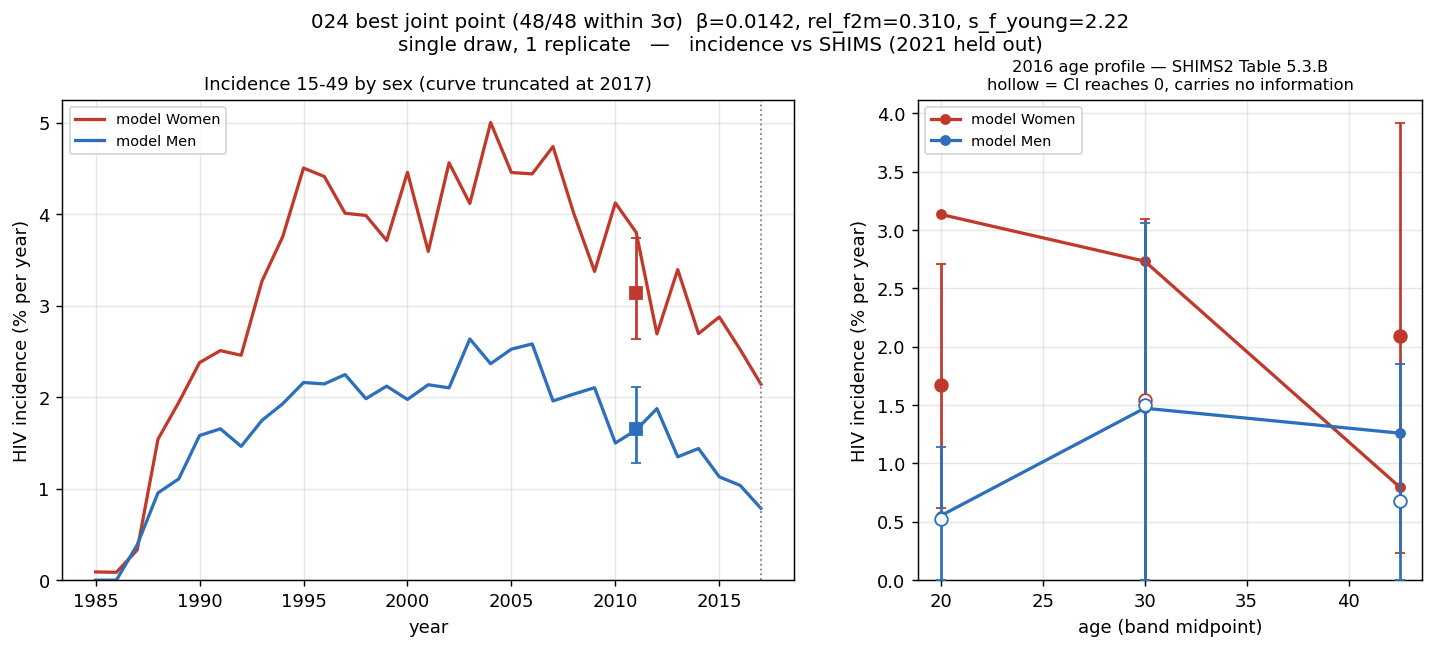
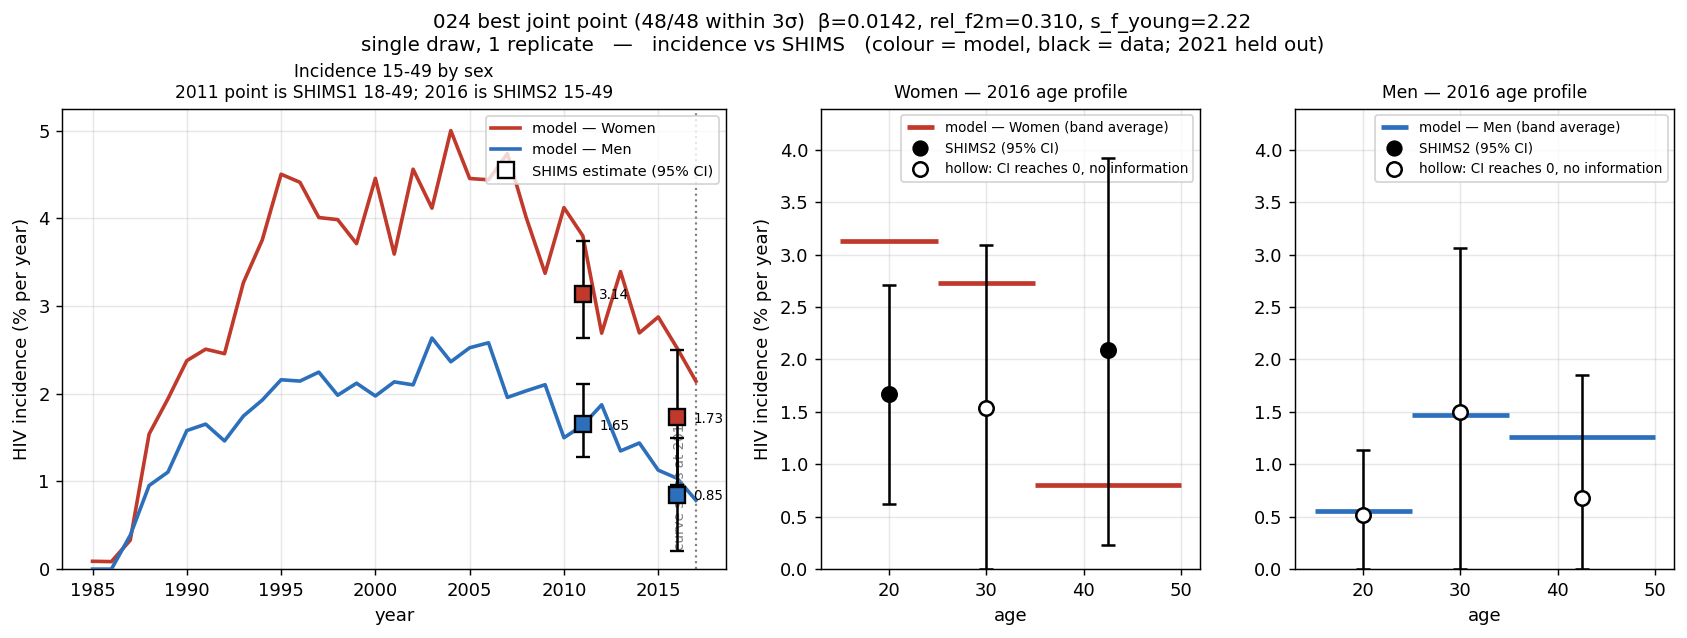
Make the incidence age profile readable, and add the published 15-49 aggregates
Two problems with the first version of the incidence figure, both real.

The 2016 age panel was unreadable. Both sexes shared one axis, so men's and
women's markers landed on the same band midpoints, and sex was encoded as colour
on the model line AND on the data marker, with filled-vs-hollow carrying a third
meaning on top. Redone as: colour is the model, black is the data, and each sex
gets its own panel. The modelled band average is now drawn as a horizontal
segment spanning the band it actually averages over, rather than a point at the
midpoint, because that is what the published estimate is.

The time series showed only the 2011 targets. The 2016 rows in
incidence_by_age_sex.csv are all age-banded, so the aggregate filter skipped
them, and there was no way to judge how well the 2016 curve fit. The published
15-49 aggregates are in data/eswatini_ppdv.csv with CIs, so they are now plotted
as a visual check -- and labelled as such, since they are deliberately NOT
registered as fitting targets: the age bands come from the same survey and
registering both would double-count it. 2021 is excluded as the hold-out.

That plot changes the diagnosis in obs 7, so the SUMMARY is corrected. All four
published aggregates land essentially on the ensemble median (2011 women 3.14,
men 1.65; 2016 women 1.73, men 0.85). The incidence LEVEL is right in both years
and both sexes. What is wrong is the allocation over age within 2016: the model
[…]

diff --git a/standard_figures.py b/standard_figures.py
@@ -361,11 +361,54 @@ def _inc_series(df, sex, lo, hi):
             else inf + df[f"popagesex.n_infected_{sex}_{b}_{b + 5}"]
     susc = alv - inf
     return 100.0 * new / susc.where(susc > 0)
+AGG_INC = "data/eswatini_ppdv.csv"
+
+
+def load_inc_aggregates(path=None):
+    """Published 15-49 incidence aggregates, for the time-series panel.
+
+    NOT fitting targets -- `incidence_by_age_sex.csv` carries the age bands, and
+    registering the aggregate as well would double-count the same survey. They
+    are exactly what a reader needs to judge the time-series curve, though, so
+    they are plotted and labelled as a visual check.
+
+    2011 is 18-49 (SHIMS1's published range), 2016 is 15-49. The 2021 row in this
+    file is the validation hold-out and is dropped here.
+    """
+    root = Path(__file__).parent
+    d = pd.read_csv(root / (path or AGG_INC)).dropna(subset=["Inc"])
+    return d[d.Year.isin((2011, 2016))][
+        ["Year", "AgeCat", "sex", "Inc", "Inc_lb", "Inc_ub"]]
+
+
+def _band_stat(df, sex, lo, hi, year, kind):
+    """(centre, lo, hi) of modelled incidence over one age band in one year."""
+    s = _inc_series(df[np.floor(df.timevec) == year], sex, lo, hi)
+    v = s.dropna() if s is not None else pd.Series(dtype=float)
+    if not len(v):
+        return np.nan, np.nan, np.nan
+    if kind == "ensemble":
+        return v.median(), v.quantile(0.05), v.quantile(0.95)
+    sd = v.std(ddof=1)
+    sd = 0.0 if not np.isfinite(sd) else sd
+    return v.mean(), v.mean() - sd, v.mean() + sd
 
 
 def plot_incidence_fit(df, label, outpath, kind="arm", tg=None, stamp=None,
                        cutoff=INC_CUTOFF):
-    """Incidence against SHIMS by sex: a time series plus the 2016 age profile.
+    """Incidence against SHIMS by sex: a time series plus per-sex 2016 age profiles.
+
+    Design notes, because the first version of this figure was unreadable
+    ---------------------------------------------------------------------
+    The 2016 age profile originally put both sexes on one axis, which made men's
+    and women's markers land on the same band midpoints and left the reader
+    guessing which glyph was model and which was data -- sex was encoded as
+    colour on *both*, and filled-vs-hollow carried a third meaning on top.
+
+    So: **colour is the model, black is the data, and the two sexes get their own
+    panels.** The modelled band average is drawn as a horizontal segment spanning
+    the band it actually averages over, rather than a point at the midpoint,
+    because that is what the published estimate is.
 
     `cutoff` truncates the modelled curve just past the last calibration target.
     Plotting to 2026 invites reading the post-target years as a projection, which
@@ -373,14 +416,15 @@ def plot_incidence_fit(df, label, outpath, kind="arm", tg=None, stamp=None,
     hold-out is deliberately untouched.
     """
     tg = load_inc_targets() if tg is None else tg
+    agg = load_inc_aggregates()
     d = df[df.timevec <= cutoff]
     cols = {"f": "#c0392b", "m": "#2c6fbb"}
     names = {"f": "Women", "m": "Men"}
 
-    fig, axes = plt.subplots(1, 2, figsize=(13.5, 4.8),
-                             gridspec_kw=dict(width_ratios=[1.45, 1]))
+    fig, axes = plt.subplots(1, 3, figsize=(16, 4.6),
+                             gridspec_kw=dict(width_ratios=[1.75, 1, 1]))
 
-    # --- Left: incidence over time, 15-49, by sex ---
+    # --- Left: incidence over time, 15-49, by sex --------------------------------
     ax = axes[0]
     for sex in ("f", "m"):
         s = _inc_series(d, sex, 15, 50)
@@ -389,65 +433,79 @@ def plot_incidence_fit(df, label, outpath, kind="arm", tg=None, stamp=None,
         gg = pd.DataFrame({"t": d.timevec.values, "v": s.values}).dropna()
         if not len(gg):
             continue
-        agg = gg.groupby("t").v
+        a = gg.groupby("t").v
         if kind == "ensemble":
-            centre, lo_b, hi_b = agg.median(), agg.quantile(0.05), agg.quantile(0.95)
+            centre, lo_b, hi_b = a.median(), a.quantile(0.05), a.quantile(0.95)
         else:
-            centre = agg.mean()
-            sd = agg.std(ddof=1).fillna(0.0)
+            centre = a.mean()
+            sd = a.std(ddof=1).fillna(0.0)
             lo_b, hi_b = centre - sd, centre + sd
-        ax.plot(centre.index, centre.values, color=cols[sex], lw=1.8,
-                label=f"model {names[sex]}")
+        ax.plot(centre.index, centre.values, color=cols[sex], lw=2,
+                label=f"model — {names[sex]}", zorder=3)
         if (hi_b - lo_b).abs().sum() > 0:
             ax.fill_between(centre.index, lo_b.values, hi_b.values,
-                            color=cols[sex], alpha=0.16, lw=0)
-    # the 15-49/18-49 aggregate targets
-    for _, t in tg.iterrows():
-        if int(t.age_high) - int(t.age_low) < 25:      # age-banded rows go right
-            continue
-        ax.errorbar(t.year, t.incidence_pct,
-                    yerr=[[t.incidence_pct - t.lb], [t.ub - t.incidence_pct]],
-                    fmt="s" if not t.uninformative else "o",
-                    mfc="white" if t.uninformative else cols[t.sex],
-                    color=cols[t.sex], ms=7, capsize=3, zorder=5)
-    ax.axvline(cutoff, ls=":", c="grey", lw=1)
+                            color=cols[sex], alpha=0.15, lw=0, zorder=1)
+    for _, r in agg.iterrows():
+        ax.errorbar(r.Year, r.Inc,
+                    yerr=[[r.Inc - r.Inc_lb], [r.Inc_ub - r.Inc]],
+                    fmt="s", mfc=cols[r.sex], mec="black", mew=1.3, ms=9,
+                    ecolor="black", elinewidth=1.4, capsize=4, zorder=6,
+                    label="_nolegend_")
+        ax.annotate(f"{r.Inc:.2f}", (r.Year, r.Inc), textcoords="offset points",
+                    xytext=(9, -3), fontsize=7.5, color="black")
+    ax.errorbar([], [], fmt="s", mfc="white", mec="black", mew=1.3, ms=9,
+                ecolor="black", capsize=4, label="SHIMS estimate (95% CI)")
+    ax.axvline(cutoff, ls=":", c="grey", lw=1.2)
+    ax.annotate(f"curve stops at {cutoff:.0f}", (cutoff, 0),
+                textcoords="offset points", xytext=(-5, 12), ha="right",
+                fontsize=7.5, color="grey", rotation=90)
     ax.set_xlabel("year"); ax.set_ylabel("HIV incidence (% per year)")
-    ax.set_title(f"Incidence 15-49 by sex (curve truncated at {cutoff:.0f})", fontsize=10)
-    ax.legend(fontsize=8); ax.set_ylim(bottom=0); ax.grid(alpha=0.3)
+    ax.set_title("Incidence 15-49 by sex\n2011 point is SHIMS1 18-49; 2016 is "
+                 "SHIMS2 15-49", fontsize=9.5)
+    ax.legend(fontsize=8, loc="upper right"); ax.set_ylim(bottom=0)
+    ax.grid(alpha=0.3)
 
-    # --- Right: the 2016 age profile (SHIMS2 Table 5.3.B) ---
-    ax = axes[1]
-    bands = tg[(tg.year == 2016)]
-    for sex in ("f", "m"):
+    # --- Right: the 2016 age profile, one panel per sex --------------------------
+    bands = tg[tg.year == 2016]
+    ymax = 0.0
+    for k, sex in enumerate(("f", "m")):
+        ax = axes[k + 1]
         b = bands[bands.sex == sex].sort_values("age_low")
-        if not len(b):
-            continue
-        mid = (b.age_low + b.age_high) / 2
-        mv, mlo, mhi = [], [], []
         for _, t in b.iterrows():
-            s = _inc_series(df[np.floor(df.timevec) == 2016], sex,
-                            int(t.age_low), int(t.age_high))
-            v = s.dropna() if s is not None else pd.Series(dtype=float)
-            if not len(v):
-                mv.append(np.nan); mlo.append(np.nan); mhi.append(np.nan); continue
-            if kind == "ensemble":
-                mv.append(v.median()); mlo.append(v.quantile(0.05)); mhi.append(v.quantile(0.95))
-            else:
-                sd = v.std(ddof=1); sd = 0.0 if not np.isfinite(sd) else sd
-                mv.append(v.mean()); mlo.append(v.mean() - sd); mhi.append(v.mean() + sd)
-        ax.plot(mid, mv, "-o", color=cols[sex], lw=1.8, ms=5, label=f"model {names[sex]}")
-        ax.fill_between(mid, mlo, mhi, color=cols[sex], alpha=0.16, lw=0)
-        for _, t in b.iterrows():
-            ax.errorbar((t.age_low + t.age_high) / 2, t.incidence_pct,
+            lo, hi = int(t.age_low), int(t.age_high)
+            c, blo, bhi = _band_stat(df, sex, lo, hi, 2016, kind)
+            # the model average drawn across the band it averages over
+            ax.hlines(c, lo, hi, color=cols[sex], lw=2.6, zorder=4)
+            if np.isfinite(blo) and bhi > blo:
+                ax.add_patch(plt.Rectangle((lo, blo), hi - lo, bhi - blo,
+                                           color=cols[sex], alpha=0.15, lw=0,
+                                           zorder=1))
+                ymax = max(ymax, bhi)
+            mid = (lo + hi) / 2
+            ax.errorbar(mid, t.incidence_pct,
                         yerr=[[t.incidence_pct - t.lb], [t.ub - t.incidence_pct]],
-                        fmt="o", mfc="white" if t.uninformative else cols[sex],
-                        color=cols[sex], ms=7, capsize=3, zorder=5)
-    ax.set_xlabel("age (band midpoint)"); ax.set_ylabel("HIV incidence (% per year)")
-    ax.set_title("2016 age profile — SHIMS2 Table 5.3.B\nhollow = CI reaches 0, "
-                 "carries no information", fontsize=9)
-    ax.set_ylim(bottom=0); ax.grid(alpha=0.3); ax.legend(fontsize=8)
+                        fmt="o", mfc="white" if t.uninformative else "black",
+                        mec="black", mew=1.4, ms=8, ecolor="black",
+                        elinewidth=1.4, capsize=4, zorder=6)
+            ymax = max(ymax, t.ub)
+        ax.hlines([], [], [], color=cols[sex], lw=2.6,
+                  label=f"model — {names[sex]} (band average)")
+        ax.errorbar([], [], fmt="o", mfc="black", mec="black", ms=8,
+                    ecolor="black", capsize=4, label="SHIMS2 (95% CI)")
+        if b.uninformative.any():
+            ax.errorbar([], [], fmt="o", mfc="white", mec="black", mew=1.4,
+                        ms=8, ecolor="black", capsize=4,
+                        label="hollow: CI reaches 0, no information")
+        ax.set_xlabel("age"); ax.set_xlim(13, 52)
+        ax.set_title(f"{names[sex]} — 2016 age profile", fontsize=9.5)
+        ax.legend(fontsize=7.5, loc="upper right"); ax.grid(alpha=0.3)
+        if k == 0:
+            ax.set_ylabel("HIV incidence (% per year)")
+    for ax in axes[1:]:
+        ax.set_ylim(0, ymax * 1.12)
 
     ttl = label if stamp is None else f"{label}\n{stamp}"
-    fig.suptitle(ttl + "   —   incidence vs SHIMS (2021 held out)", y=1.02, fontsize=11)
+    fig.suptitle(ttl + "   —   incidence vs SHIMS   (colour = model, black = data; "
+                 "2021 held out)", y=1.04, fontsize=11)
     fig.savefig(outpath, dpi=130, bbox_inches="tight")
     plt.close(fig)

diff --git a/experiments/024_hm_wave1/SUMMARY.md b/experiments/024_hm_wave1/SUMMARY.md
@@ -100,16 +100,35 @@ diagnosed a structural bias that opening `beta_m2f` largely removes.
    matched at 0.25, and the rest of the target set pulls higher. Worth resolving
    in wave 2 rather than declaring either number correct.
 
-7. **Incidence: 2011 is hit almost exactly; female 35–49 in 2016 is the one
-   target no draw reaches.** The SHIMS1 cohort estimates (women 3.14, men 1.65
-   per 100 py) land on the ensemble median. But `inc_f_35_50_2016` has a target of
-   2.09 against an ensemble 95th percentile of **1.087** — the entire prior is
-   below it, and the model's female incidence *declines* with age where SHIMS2
-   says it stays high. That is SHIMS2's own chapter conclusion ("new infections
-   continue at high rates among ... females aged 35–49") and the model cannot
-   produce it.
+7. **Incidence: the level is right in both years and both sexes. The female age
+   *profile* in 2016 is not.** This is a sharper diagnosis than "the model cannot
+   reach female 35–49 incidence", and it only became visible once the published
+   15–49 aggregates were plotted alongside the age bands:
 
-   ![Incidence against SHIMS by sex: 2011 cohort targets land on the median, but the model's female incidence declines with age where SHIMS2 2016 says it stays high](figures/incidence_fit_vs_shims.png)
+   | | model | published | source |
+   |---|---|---|---|
+   | 2011 women 18–49 | 3.1 | **3.14** (2.63–3.74) | SHIMS1 cohort |
+   | 2011 men 18–49 | 1.6 | **1.65** (1.28–2.11) | SHIMS1 cohort |
+   | 2016 women 15–49 | 1.7 | **1.73** (0.96–2.50) | SHIMS2 Table 5.3.B |
+   | 2016 men 15–49 | 0.85 | **0.85** (0.21–1.49) | SHIMS2 Table 5.3.B |
+
+   All four aggregates land essentially on the ensemble median. But within 2016
+   the model allocates female incidence to the wrong ages — **2.05 at 15–24
+   against a measured 1.67, and 0.35 at 35–49 against a measured 2.09.** Total
+   female incidence is correct; its distribution over age is not. So this is a
+   redistribution problem, not a transmission-level problem, and no amount of
+   `beta_m2f` will fix it — which is consistent with `inc_f_35_50_2016` being the
+   one target whose value the entire prior sits below (p95 = 1.087).
+
+   That is also SHIMS2's own chapter conclusion — "new HIV infections continue at
+   high rates among ... females aged 35–49" — and the model cannot produce it.
+
+   ![Incidence against SHIMS by sex: all four published 15-49 aggregates land on the ensemble median, but the model's 2016 female age profile is too high at 15-24 and far too low at 35-49](figures/incidence_fit_vs_shims.png)
+
+   The aggregates are plotted as a visual check only. They are deliberately
+   **not** registered as fitting targets, because the age bands in
+   `incidence_by_age_sex.csv` come from the same survey and registering both
+   would double-count it.
 
 8. **The residual structural defect is now two specific things, not a diffuse
    age-shape problem.** Of 48 targets the 5–95% envelope misses three:
@@ -199,10 +218,14 @@ band.
   is a per-act transmission parameter that a downstream PrEP-versus-treatment
   comparison is directly sensitive to.
 - **Ask whether older women's incidence needs a mechanism.** Obs 7 is the one
-  target nothing in the box reaches. The candidates are age mixing (older women
-  partnering older, higher-prevalence men) and the female partnering taper to
-  zero at 55 noted in 021. This is a model-structure question, not a calibration
-  one.
+  target nothing in the box reaches, and the fact that the *total* is right means
+  the mechanism has to move female risk from 15–24 to 35–49 rather than add
+  transmission. The candidates are age mixing (older women partnering older,
+  higher-prevalence men) and the female partnering taper to zero at 55 noted in
+  021. This is a model-structure question, not a calibration one — and it puts
+  `s_f_young` under suspicion, since obs 5 has the data endorsing an elevated
+  young-female susceptibility that may partly be compensating for female risk
+  being misallocated across age in the first place.
 
 ## Artifacts
 
